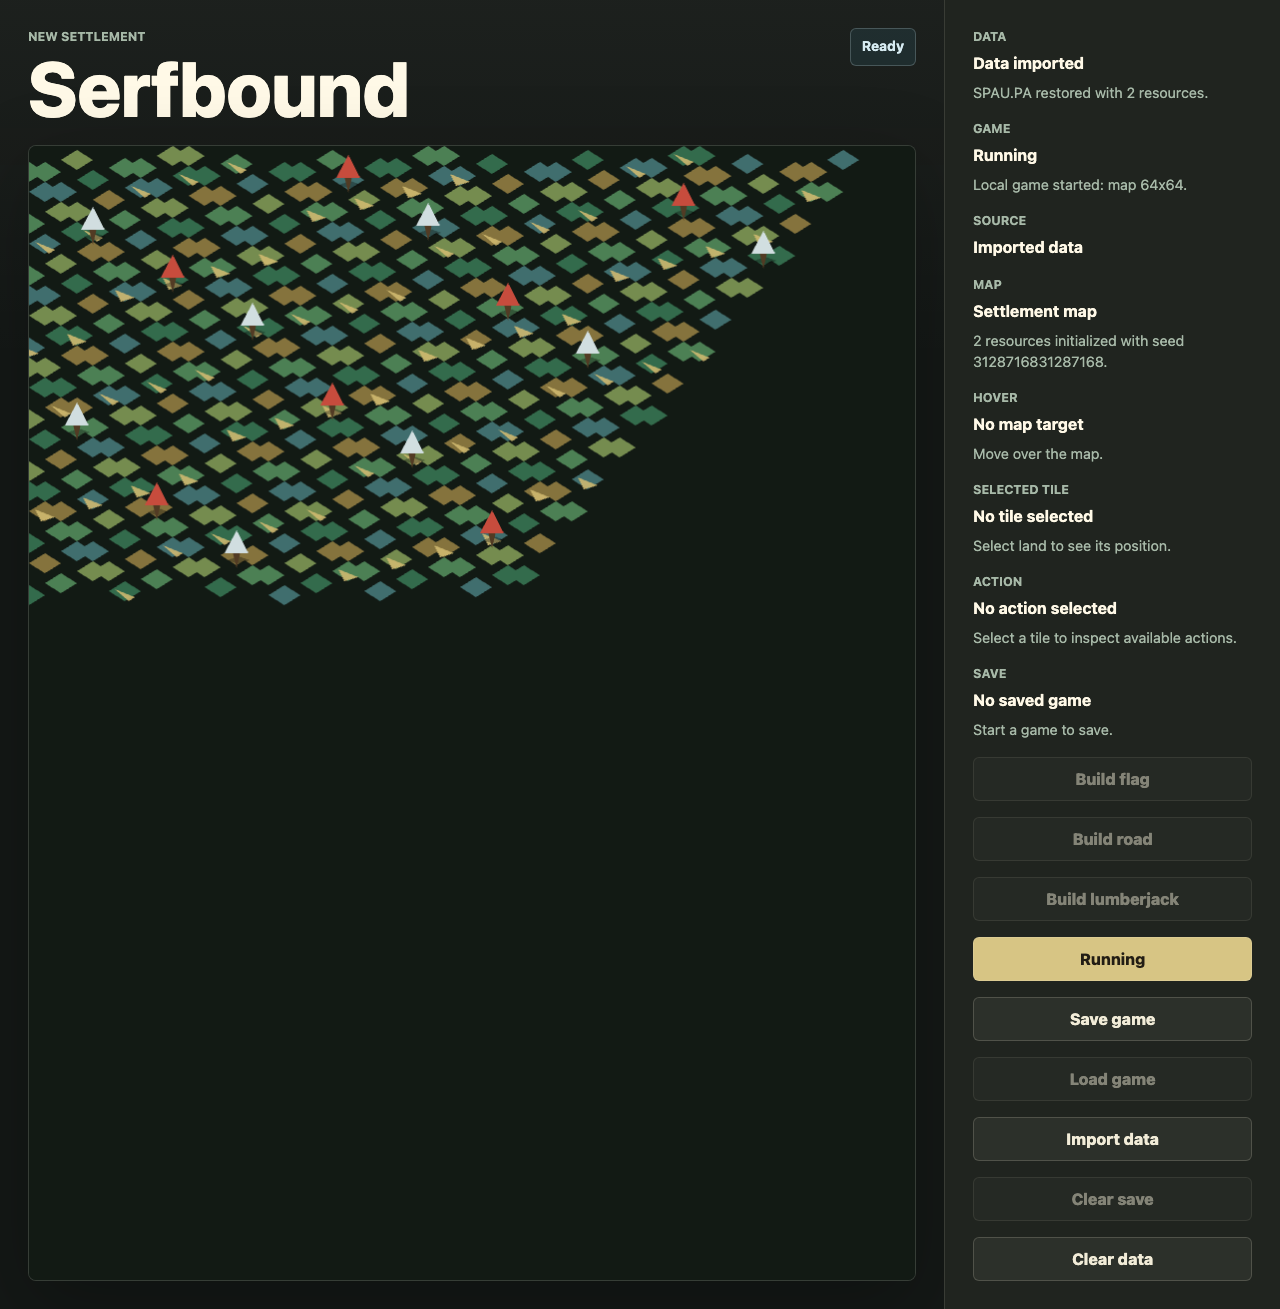
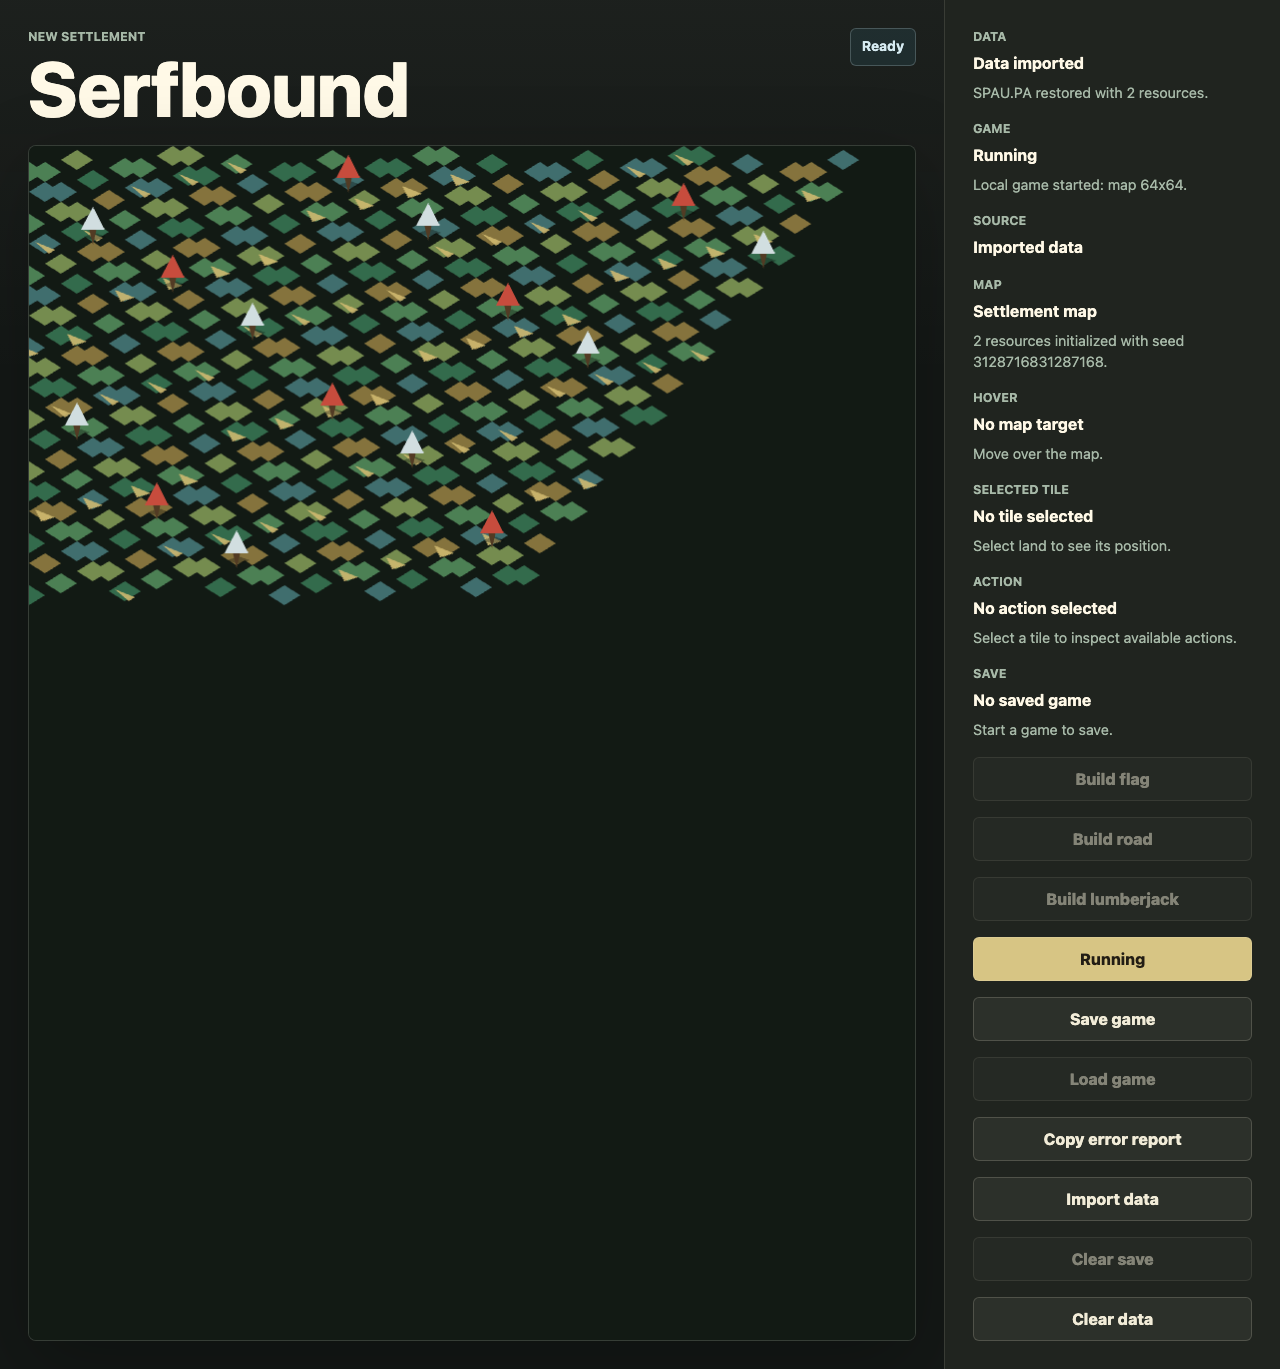
SB-20-02 error reporting and issue intake

Changed region(s): [[0.0, 0.0, 0.6875, 0.4584], [0.75, 0.0306, 1.0, 0.9778], [0.6562, 0.0306, 0.7188, 0.0611]]

diff --git a/serfbound/packages/app/src/main.ts b/serfbound/packages/app/src/main.ts
@@ -219,6 +219,39 @@ export function registerServiceWorker(): void {
   }
 }
 
+// Privacy-respecting error intake: errors buffer locally; the player
+// copies a context report (no game data, no archive bytes) into an
+// issue by explicit action only.
+const serfboundVersion = "0.1.0";
+const errorBuffer: { message: string; stack: string; at: string }[] = [];
+
+function recordError(message: string, stack: string | undefined): void {
+  errorBuffer.push({
+    message: message.slice(0, 500),
+    stack: (stack ?? "").slice(0, 2000),
+    at: new Date().toISOString(),
+  });
+  if (errorBuffer.length > 10) {
+    errorBuffer.shift();
+  }
+}
+
+export function buildErrorReport(gameFacts: Record<string, string | undefined>): string {
+  return JSON.stringify(
+    {
+      product: "serfbound",
+      version: serfboundVersion,
+      userAgent: typeof navigator === "undefined" ? "unknown" : navigator.userAgent,
+      generatedAt: new Date().toISOString(),
+      gameFacts,
+      errors: errorBuffer,
+      note: "No game data or archive contents are included in this report.",
+    },
+    null,
+    2,
+  );
+}
+
 export function mountSerfbound(root: HTMLElement, options: MountSerfboundOptions = {}): void {
   const importedArchiveStore =
     options.importedArchiveStore ?? new BrowserIndexedDbImportedArchiveStore();
@@ -347,6 +380,11 @@ export function mountSerfbound(root: HTMLElement, options: MountSerfboundOptions
           type="button"
           disabled
         >Load game</button>
+        <button
+          class="secondary-action"
+          data-testid="error-report-button"
+          type="button"
+        >Copy error report</button>
         <label
           class="secondary-action import-control"
           data-testid="data-import-control"
@@ -441,6 +479,36 @@ export function mountSerfbound(root: HTMLElement, options: MountSerfboundOptions
   }
   root.ownerDocument.addEventListener("visibilitychange", () => {
     audioService.setVisible(!root.ownerDocument.hidden);
+  });
+  globalThis.addEventListener?.("error", (event) => {
+    recordError(String(event.message ?? event), (event as ErrorEvent).error?.stack);
+    root.dataset.serfboundErrorCount = String(errorBuffer.length);
+  });
+  globalThis.addEventListener?.("unhandledrejection", (event) => {
+    recordError(String((event as PromiseRejectionEvent).reason), undefined);
+    root.dataset.serfboundErrorCount = String(errorBuffer.length);
+  });
+  const errorReportButton = root.querySelector<HTMLButtonElement>(
+    "[data-testid='error-report-button']",
+  );
+  errorReportButton?.addEventListener("click", () => {
+    const report = buildErrorReport({
+      gameState: root.dataset.serfboundGameState,
+      gameTick: root.dataset.serfboundGameTick,
+      seed: root.dataset.serfboundLocalGameSeed,
+      mapSize: root.dataset.serfboundLocalGameMapSize,
+      mission: root.dataset.serfboundInitMission,
+      sceneSource: root.dataset.serfboundSceneSource,
+    });
+    root.dataset.serfboundErrorReportSize = String(report.length);
+    void globalThis.navigator?.clipboard?.writeText(report).then(
+      () => {
+        root.dataset.serfboundErrorReportState = "copied";
+      },
+      () => {
+        root.dataset.serfboundErrorReportState = "clipboard-unavailable";
+      },
+    );
   });
   const syncAudioState = () => {
     root.dataset.serfboundAudio = audioService.state;

diff --git a/serfbound/tests/browser/static-shell.spec.ts b/serfbound/tests/browser/static-shell.spec.ts
@@ -809,3 +809,35 @@ async function countWebglNonBlankPixels(page) {
     return count;
   });
 }
+
+
+test("the error report copies actionable, data-free context on demand", async ({
+  page,
+  context,
+}) => {
+  await context.grantPermissions(["clipboard-read", "clipboard-write"]);
+  await page.goto("/");
+
+  // A runtime error lands in the local buffer (nothing is sent anywhere).
+  await page.evaluate(() => {
+    window.setTimeout(() => {
+      throw new Error("e2e-intake-test-error");
+    }, 0);
+  });
+  await expect(page.locator("#app")).toHaveAttribute(
+    "data-serfbound-error-count",
+    /^[1-9]$/,
+  );
+
+  await page.getByTestId("error-report-button").click();
+  await expect(page.locator("#app")).toHaveAttribute(
+    "data-serfbound-error-report-state",
+    "copied",
+  );
+  const report = await page.evaluate(() => navigator.clipboard.readText());
+  const parsed = JSON.parse(report);
+  expect(parsed.product).toBe("serfbound");
+  expect(parsed.version).toBe("0.1.0");
+  expect(JSON.stringify(parsed.errors)).toContain("e2e-intake-test-error");
+  expect(report).not.toContain("SPAU");
+});

diff --git a/pm/roadmap/serfbound/phase-20-launch-operations/current-phase-status.md b/pm/roadmap/serfbound/phase-20-launch-operations/current-phase-status.md
@@ -34,7 +34,7 @@ post-launch roadmap — with multiplayer as the headline post-launch track.
   hosting path with cache-correct headers. (SB-20-01; the Pages pipeline
   ships verified — the repository Pages toggle is the maintainer's
   activation step, recorded)
-- [ ] Errors can be reported (opt-in) with enough context to act, and issues
+- [x] Errors can be reported (opt-in) with enough context to act, and issues
   flow through a documented intake. (SB-20-02)
 - [ ] Player and contributor docs cover the complete game accurately.
   (SB-20-03)
@@ -46,16 +46,16 @@ post-launch roadmap — with multiplayer as the headline post-launch track.
 | ID | Story | Status | Story file | Evidence |
 |---|---|---|---|---|
 | SB-20-01 | Public release pipeline and versioning | done | story-01-public-release-pipeline.md | evidence-story-01.md |
-| SB-20-02 | Error reporting and issue intake | backlog | story-02-error-reporting-intake.md | — |
+| SB-20-02 | Error reporting and issue intake | done | story-02-error-reporting-intake.md | evidence-story-02.md |
 | SB-20-03 | Full-game documentation refresh | backlog | story-03-documentation-refresh.md | — |
 | SB-20-04 | Launch readiness and post-launch roadmap | backlog | story-04-launch-readiness-roadmap.md | — |
 
 ## Where we are
 
-SB-20-01 is done: the GitHub Pages release pipeline runs the full
-data-free gates on serfbound-v* tags and deploys the version-stamped
-artifact; v0.1.0 is versioned with a capability changelog. SB-20-02
-(error reporting and intake) is next.
+SB-20-02 is done: errors buffer locally and the player copies an
+inspectable, data-free context report into the documented GitHub issue
+template — nothing transmits without explicit action. SB-20-03 (docs
+refresh) is next.
 
 ## Active risks
 

diff --git a/pm/roadmap/serfbound/phase-20-launch-operations/evidence-story-02.md b/pm/roadmap/serfbound/phase-20-launch-operations/evidence-story-02.md
@@ -1,0 +1,42 @@
+# Evidence — SB-20-02 — Error Reporting and Issue Intake
+
+- **Shipped:** 2026-06-10
+- **Commit:** pending
+- **Owner:** Claude
+
+## Files touched
+
+- `serfbound/packages/app/src/main.ts` — privacy-respecting error
+  intake: runtime errors and unhandled rejections buffer locally (a ring
+  of ten, message + trimmed stack + time); the "Copy error report"
+  button builds a JSON report (product, version, user agent, game facts
+  like tick/seed/map size/mission/scene source, the buffered errors, and
+  an explicit no-game-data note) and copies it to the clipboard ONLY on
+  the player's action — the game sends nothing on its own, ever.
+- `.github/ISSUE_TEMPLATE/serfbound-bug-report.md` — the intake
+  template: what happened, the pasted report, the device facts.
+- `serfbound/docs/player-guide.md` — the "Reporting problems" section.
+- `serfbound/tests/browser/static-shell.spec.ts` — the intake e2e: a
+  forced runtime error lands in the buffer, the copy action produces a
+  parseable report carrying the error and the version, and the report
+  contains no archive references.
+
+## Verification artifacts
+
+```text
+npx playwright test (intake test) -> 1 passed
+npm run test:browser -> 9 passed (2.5m)
+npm run test:unit -> # tests 171 / pass 171 / fail 0
+npm run test:docs -> serfbound-docs-ok
+```
+
+## Deviations from plan
+
+- No telemetry of any kind ships — even opt-in transmission is deferred
+  in favor of the copy-paste flow, which is fully inspectable by the
+  player before anything leaves the device. Recorded as the intake
+  decision.
+
+## Follow-ups
+
+- SB-20-03: the full-game documentation refresh.

diff --git a/serfbound/docs/player-guide.md b/serfbound/docs/player-guide.md
@@ -115,3 +115,12 @@ Serfbound installs as an app from your browser's install option. The app
 shell works offline; your imported data and saves live in this device's
 browser storage, so the game keeps playing without a network. Original
 game data is never uploaded or cached outside your device.
+
+## Reporting problems
+
+If something breaks, press "Copy error report" in the side panel and
+paste the result into a new GitHub issue (the "Serfbound bug report"
+template). The report carries your browser, the game version, and the
+last few errors with game facts like the tick and map seed — it never
+includes your imported game data. Reporting is always your explicit
+action; the game sends nothing on its own.

diff --git a/pm/roadmap/serfbound/phase-20-launch-operations/story-02-error-reporting-intake.md b/pm/roadmap/serfbound/phase-20-launch-operations/story-02-error-reporting-intake.md
@@ -2,7 +2,7 @@
 
 - **Project:** serfbound
 - **Phase:** 20
-- **Status:** backlog
+- **Status:** done
 - **Depends on:** SB-20-01
 - **Unblocks:** SB-20-03
 - **Owner:** unassigned
@@ -18,9 +18,9 @@ Live players hit bugs the suite never saw. They need an opt-in way to report err
 
 ## Acceptance criteria
 
-- [ ] Error reports contain actionable, privacy-reviewed context only.
-- [ ] Issue templates and a triage flow are documented.
-- [ ] A simulated failure produces a usable report end-to-end.
+- [x] Error reports contain actionable, privacy-reviewed context only.
+- [x] Issue templates and a triage flow are documented.
+- [x] A simulated failure produces a usable report end-to-end.
 
 ## Test plan
 

diff --git a/.github/ISSUE_TEMPLATE/serfbound-bug-report.md b/.github/ISSUE_TEMPLATE/serfbound-bug-report.md
@@ -1,0 +1,26 @@
+---
+name: Serfbound bug report
+about: Report a problem with the browser game
+title: "[serfbound] "
+labels: serfbound, bug
+---
+
+## What happened
+
+<!-- What did you do, what did you expect, what happened instead? -->
+
+## Error report
+
+<!-- In the game's side panel, press "Copy error report" and paste the
+result here. It contains your browser, the game's version, and recent
+errors — never your game data. -->
+
+```json
+PASTE HERE
+```
+
+## Your setup
+
+- Browser and version:
+- Device (desktop/phone/tablet):
+- Installed as PWA? (yes/no):
